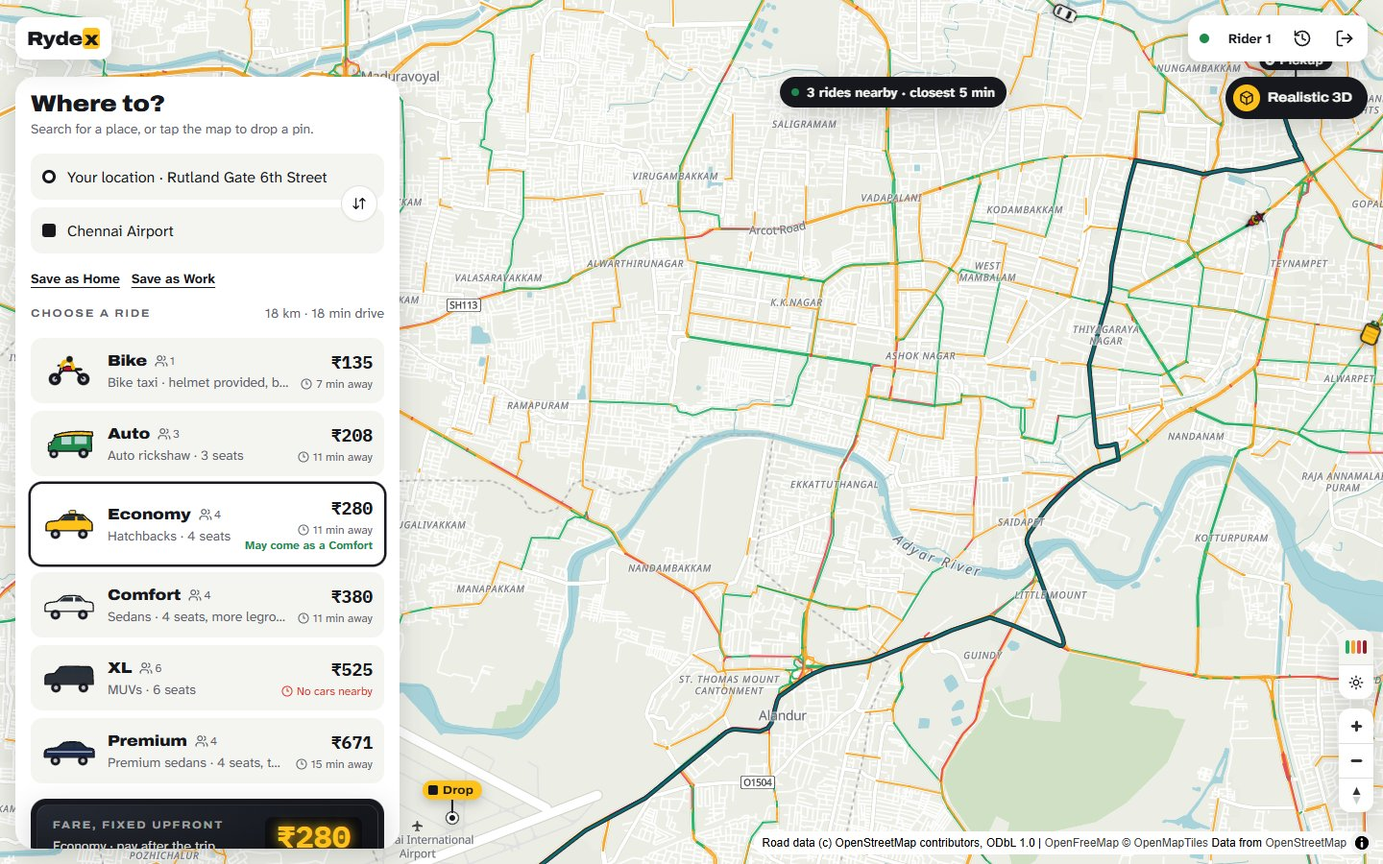
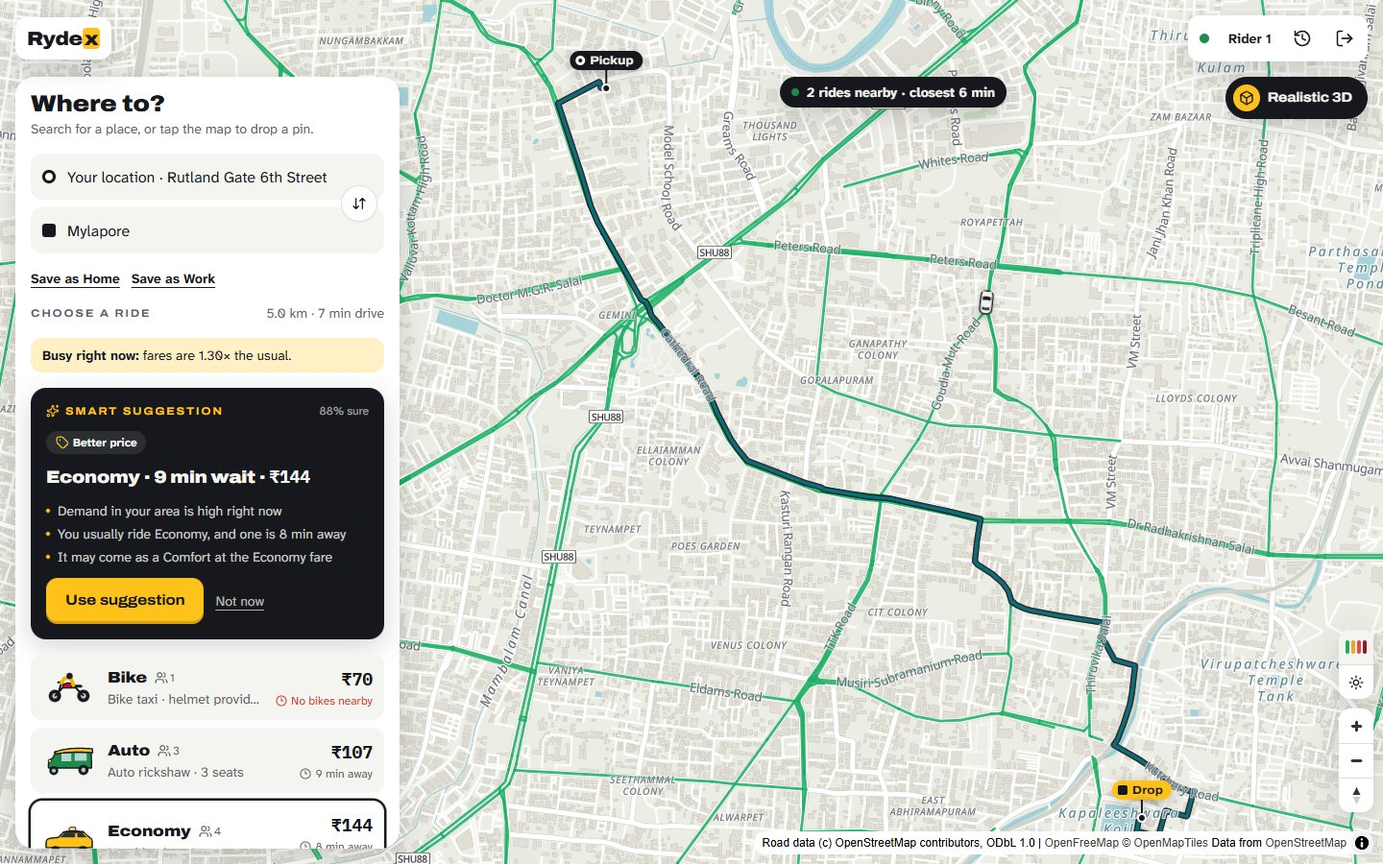
docs: Phase 7 in the README, guide, ADR 22 and agent notes

diff --git a/README.md b/README.md
@@ -20,12 +20,12 @@
 
 ## About
 
-Rydex is a ride-hailing platform in the spirit of Uber and Ola, set in Chennai: riders book bikes, autos and cabs, drivers get offers and drive the trip, and operations watch the whole city live. Four Spring Boot services talk over Kafka with a transactional outbox, live positions travel over WebSockets, and a Python simulator fills the city with automated drivers and riders who book, drive, pay and rate on their own.
+Rydex is a ride-hailing platform in the spirit of Uber and Ola, set in Chennai: riders book bikes, autos and cabs, drivers get offers and drive the trip, and operations watch the whole city live. Four Spring Boot services talk over Kafka with a transactional outbox, and live positions travel over WebSockets. A Python AI service suggests the best ride, time and pickup spot, and a Python simulator fills the city with automated drivers and riders who book, drive, pay and rate on their own.
 
 Everything runs locally with Docker, and the deployment plan uses free tiers only (Oracle Cloud Always Free, Vercel, DuckDNS).
 
 > [!NOTE]
-> Work in progress: phases 0–6 of the [build plan](docs/MASTER_PROMPT.md) are done. Next up are AI ride suggestions, production hardening, observability and the public deployment (see the [roadmap](#roadmap)).
+> Work in progress: phases 0–7 of the [build plan](docs/MASTER_PROMPT.md) are done. Next up are production hardening, observability and the public deployment (see the [roadmap](#roadmap)).
 
 ## Features
 
@@ -35,6 +35,15 @@ Everything runs locally with Docker, and the deployment plan uses free tiers onl
 - The car moves live on the map; a 4-digit PIN starts the trip.
 - Saved Home and Work, recent destinations, trip ratings.
 - When no driver is found: the rides free nearby right now, one tap to book.
+
+**Smart suggestions (AI)**
+- A suggestion card with every estimate. It suggests:
+  - the ride you usually take;
+  - booking 10 or 20 minutes later when the surge is predicted to ease;
+  - a short walk to a spot with more free cars;
+  - the route that is faster in this hour's traffic.
+- Plain reasons, "Use suggestion" in one tap, and every suggestion logged with whether the rider booked with it.
+- Two LightGBM models (wait time, surge) on live demand and supply from Kafka, trained on synthetic Chennai-like data. No paid AI service.
 
 **Drivers**
 - Offers matched by geohash and road ETA, 15 seconds to accept, with locks so a driver gets one offer at a time.
@@ -55,11 +64,11 @@ Everything runs locally with Docker, and the deployment plan uses free tiers onl
 
 <table>
   <tr>
-    <td width="50%"><img src="docs/images/booking.jpg" alt="The rider's booking screen: six ride types with fares and times, the route to Chennai Airport over simulated traffic"></td>
+    <td width="50%"><img src="docs/images/booking.jpg" alt="The rider's booking screen: the AI smart suggestion card with its reasons above the ride types and fares, the route to Mylapore over simulated traffic"></td>
     <td width="50%"><img src="docs/images/operations.jpg" alt="The operations map: the living city's vehicles, waiting riders and dispatch lines over Chennai, with live KPIs at the side"></td>
   </tr>
   <tr>
-    <td align="center"><sub>Booking: every ride type, priced upfront</sub></td>
+    <td align="center"><sub>Booking: a smart suggestion, every ride type priced upfront</sub></td>
     <td align="center"><sub>Operations: the living city, live</sub></td>
   </tr>
 </table>
@@ -70,6 +79,7 @@ Everything runs locally with Docker, and the deployment plan uses free tiers onl
 flowchart TB
     web["Web app<br/>React · MapLibre · three.js"]
     sim["Simulator<br/>NPC drivers + riders"]
+    ai["ai-service :8085<br/>FastAPI · LightGBM suggestions"]
 
     subgraph services["Spring Boot services"]
         direction LR
@@ -90,6 +100,9 @@ flowchart TB
     services --> pg
     services --> redis
     services -- "payments" --> rzp
+    services -- "suggestions (300 ms, circuit breaker)" --> ai
+    kafka -- "demand + supply features" --> ai
+    ai --> redis
 ```
 
 A booking flows `RIDE_REQUESTED → DRIVER_ASSIGNED → DRIVER_ARRIVED → IN_PROGRESS → COMPLETED`; each step is an event that the other services consume exactly once (idempotent consumers), and every event reaches the rider and driver live through tracking-service. The decisions behind each piece are written up as [architecture decision records](docs/adr).
@@ -99,6 +112,7 @@ A booking flows `RIDE_REQUESTED → DRIVER_ASSIGNED → DRIVER_ARRIVED → IN_PR
 | Backend | Java 21, Spring Boot 4, Spring Security (RS256/JWKS), Spring Kafka, JPA + Flyway, Resilience4j |
 | Data | PostgreSQL 16 + PostGIS, Redis 7 (GEO, Lua scripts, pub/sub), Apache Kafka 4 (KRaft) |
 | Web | React 19, Vite, TypeScript, Tailwind CSS 4, TanStack Query, Zustand, MapLibre GL, three.js, STOMP |
+| AI | Python 3.12, FastAPI, LightGBM, aiokafka, Redis features |
 | Simulator | Python 3.12 asyncio, OSRM routes |
 | Testing | JUnit 5 + Testcontainers, Vitest + Testing Library, Playwright, pytest, a PowerShell smoke test |
 | Maps | OpenStreetMap data, OpenFreeMap vector tiles, OSRM routing, Nominatim search |
@@ -128,9 +142,13 @@ cd frontend && npm install && npm run dev
 
 # 6. Bring the city to life: 40 automated drivers and 30 automated riders
 cd simulator && pip install -r requirements.txt && python simulate.py --city
+
+# 7. Optional: the AI suggestions (without it, estimates have no suggestion card)
+cd ai-service && python -m venv .venv && .venv/bin/pip install -r requirements.txt
+.venv/bin/python -m uvicorn app.main:app --port 8085
 ```
 
-On Windows, use `.\mvnw.cmd` and PowerShell's `;` in place of `&&`; step 3 needs Git Bash.
+On Windows, use `.\mvnw.cmd`, `.venv\Scripts\` in place of `.venv/bin/`, and PowerShell's `;` in place of `&&`; step 3 needs Git Bash.
 
 Sign in with a demo account (password `Rydex@123`):
 
@@ -149,6 +167,7 @@ The [guide](docs/GUIDE.md) covers the full tour, Razorpay test mode, the smoke t
 | Backend: unit and integration tests | `./mvnw verify` |
 | Web app: lint, types, formatting, unit tests | `cd frontend && npm run lint && npm run typecheck && npm run format:check && npm test` |
 | Simulator | `cd simulator && python -m pytest` |
+| AI service: engine, features, models, API | `cd ai-service && python -m pytest` |
 | End to end, with the services running | `powershell -File infra/scripts/smoke-test.ps1`, then `cd frontend && npm run e2e` |
 
 [CI](.github/workflows/ci.yml) runs all of them on every push, the end-to-end tests against the full stack.
@@ -162,7 +181,8 @@ libs/messaging/       outbox relay, idempotent consumers, retries and dead-lette
 libs/presence/        driver presence in Redis (Lua scripts), shared by driver- and tracking-service
 frontend/             React web app: rider, driver and admin screens
 simulator/            the living city: automated drivers and riders (Python asyncio)
-contracts/            JSON Schemas for the Kafka events, the WebSocket (STOMP) API
+ai-service/           smart ride suggestions: FastAPI, LightGBM, training on synthetic data
+contracts/            JSON Schemas for the Kafka events and the AI suggestions, the WebSocket (STOMP) API
 infra/                Docker Compose, the PostGIS image, scripts, the smoke test
 docs/                 the guide, the build plan and architecture decision records
 ```
@@ -173,7 +193,7 @@ docs/                 the guide, the build plan and architecture decision record
 - [x] **4–5** Live tracking over WebSockets; payments (mock and Razorpay test mode, refunds)
 - [x] **6** Web app (rider, driver, admin), simulator, end-to-end tests
 - [x] Beyond the plan: security hardening, the realistic 3D mode, the living city, ride types, ride-along, free upgrades, ratings
-- [ ] **7** AI ride suggestions (FastAPI + LightGBM)
+- [x] **7** AI ride suggestions (FastAPI + LightGBM, live Kafka features, feedback log)
 - [ ] **8** Production Docker images, Caddy, memory limits
 - [ ] **9** Observability: Sentry, Prometheus, Grafana
 - [ ] **10** Deployment: Oracle Cloud Always Free, HTTPS, Vercel, continuous delivery
@@ -188,4 +208,4 @@ Contributions are welcome. Read [CONTRIBUTING.md](CONTRIBUTING.md) for the setup
 
 Rydex is released under the [MIT License](LICENSE).
 
-Map data © [OpenStreetMap](https://www.openstreetmap.org/copyright) contributors, available under the [Open Database License](https://opendatacommons.org/licenses/odbl/); this covers the road data in `frontend/public/data/traffic-roads.json`. Vector tiles by [OpenFreeMap](https://openfreemap.org) (OpenMapTiles schema), routes by [OSRM](https://project-osrm.org), place search by [Nominatim](https://nominatim.org).
+Map data © [OpenStreetMap](https://www.openstreetmap.org/copyright) contributors, available under the [Open Database License](https://opendatacommons.org/licenses/odbl/); this covers the road data in `frontend/public/data/traffic-roads.json`. Vector tiles by [OpenFreeMap](https://openfreemap.org) (OpenMapTiles schema), routes by [OSRM](https://project-osrm.org), place search by [Nominatim](https://nominatim.org). The AI suggestions learn from synthetic data, and traffic is a time-of-day model, since free routing has no live traffic.

diff --git a/CLAUDE.md b/CLAUDE.md
@@ -22,6 +22,7 @@ The full specification is in [docs/MASTER_PROMPT.md](docs/MASTER_PROMPT.md). Rea
 - Infra: `docker compose -f infra/docker-compose.yml up -d` (Postgres+PostGIS :5432, Redis :6379, Kafka :9092 — all on 127.0.0.1)
 - Frontend (`frontend/`): `npm run dev` (:5173, proxies /api + /ws), `npm run format` (Prettier, `.prettierrc.json`: 160 columns, single quotes; CI runs `format:check`), `npm run lint`, `npm run typecheck`, `npm test`, `npm run e2e` (Playwright, needs the 4 services)
 - Simulator (`simulator/`): `python simulate.py --city` (the living city: 40 NPC drivers + 30 NPC riders); tests `python -m pytest`
+- AI service (`ai-service/`, own venv `.venv`): `.venv\Scripts\python -m uvicorn app.main:app --port 8085`; tests `.venv\Scripts\python -m pytest`; retrain `python -m training.train` (deterministic, models committed); after changing `app/schemas.py` run `python -m app.contract` (a test fails if `contracts/ai/suggestions.schema.json` is stale)
 - Traffic roads (once; output committed): `python infra/scripts/build-traffic-roads.py` (Overpass, tiles cached in `.cache/`)
 
 ## Gotchas
@@ -37,7 +38,8 @@ The full specification is in [docs/MASTER_PROMPT.md](docs/MASTER_PROMPT.md). Rea
 - Docs: the README is the short front page (features, architecture diagram, getting started, roadmap); the full tour, demo accounts, Razorpay, smoke test, secrets and troubleshooting live in `docs/GUIDE.md`. Screenshots in `docs/images/` (JPEG, from headless Playwright).
 - Local Kafka (combined broker+controller) has `KAFKA_BROKER_SESSION_TIMEOUT_MS=30000`: with the default 9 s a busy laptop missed heartbeats, the broker was fenced and reloaded every partition in a loop (NOT_COORDINATOR storms, ride events minutes late). After changing compose env, `docker compose -f infra/docker-compose.yml up -d kafka` recreates it.
 - Running the services plus `mvnw verify` can exhaust 8 GB RAM (forked test JVM fails to start): stop the services first. Local runs are kept lean: `spring-boot:run` JVMs get `-Xmx320m -XX:+UseSerialGC -XX:TieredStopAtLevel=1` (root pom), Maven itself `.mvn/jvm.config`, Kafka `-Xmx512m` with a 64 MB health-check CLI (the CLI inherits `KAFKA_HEAP_OPTS` otherwise): about 1.2 GB less than before.
-- Python helper scripts piped through a Bash heredoc lose backslashes (a doubled backslash arrives single): write them with the Write tool and raw strings.
+- Python helper scripts piped through a Bash heredoc lose backslashes (a doubled backslash arrives single): write them with the Write tool and raw strings. In them always `read_text(encoding='utf-8')` / `write_text(..., encoding='utf-8')`: the Windows default (cp1252) writes a new `·` or `₹` as one invalid byte, or fails halfway and truncates the file.
+- ai-service (ADR 0022): ride-service calls it with every real rider's estimate (`rydex.ai.*`: 300 ms read timeout, circuit breaker `ai`); any failure means an estimate without `suggestion`, never an error. NPC riders get none. The request carries the quoted options/route/alternatives/surge counts/history, so ai-service has no database; `ai_suggestion_log` (ride V12) is ride-service's. Booking with `suggestionId` marks it taken only if that rider was shown it. ai-service connects to `127.0.0.1` (not `localhost`: on Windows that tries IPv6 first and the containers listen on IPv4 only, which once timed every Redis call out). Its feature keys are `ai:*`. Tests: ride-service uses `AiStub` (a local HTTP server, 503 by default; reset the breaker in tests that need it).
 - Frontend: one API origin routed by path prefix (ADR 0013); the Vite proxy table in `vite.config.ts` must match Caddy (Phase 8), the simulator's `LOCAL_ROUTES` and the smoke test. New npm/pip deps: pin a version at least two weeks old; TypeScript stays on 6.0 (typescript-eslint supports < 6.1).
 - Bundle: three.js loads only with realistic mode (`import('./car3d')`/`import('./scenery')`); MapLibre (~300 KB gz + a ~500 KB worker) loads with the first map, and the sign-in page prefetches both (`map/prefetch.ts`: 2.8 s -> 0.9 s to the first map on a slow network). `npx vite preview` (:4173) serves the production build with the same proxy for such checks.
 - Frontend tests mock `api/endpoints`, `map/MapView` (Leaflet needs layout) and `realtime/hooks`. JSX test helpers must be `.tsx`.
@@ -70,6 +72,7 @@ The full specification is in [docs/MASTER_PROMPT.md](docs/MASTER_PROMPT.md). Rea
 - `libs/presence` — `PresenceStore` + Lua scripts for `driver:{id}:state|loc`, `driver:lastseen`, GEO/supply indexes; used by driver-service and tracking-service (ADR 0011).
 - tracking-service — STOMP at `/ws` (contract: `contracts/websocket.md`), `ws:push` Redis channel for fan-out (driver-service pushes offers there too), `tracked_rides` projection, `driver.location` producer + `tracking-history` consumer.
 - frontend — React 19 + Vite 8 + Tailwind 4 + TanStack Query + Zustand + MapLibre GL + three.js + stompjs. `api/` (http client with cross-tab refresh, endpoints, types), `realtime/` (one STOMP connection, hooks), `map/` (`MapView` components, `theme` palettes/3D buildings/sky, `car3d` + `scenery` three.js custom layers, `Atmosphere` sky overlay, `traffic`/`TrafficLayer`, `mapPrefs` + `MapPrefsControl`, `useRealistic`, `useFollowedRoute`), `pages/{rider,driver,admin}` + `TripPage` (`/trips/:id`, drivers and admins), `components/` (ui: Meter, Plate, PinTiles, Sheet, PasswordField; Realistic: HUD, speedometer, TripProgress). Playwright test in `e2e/`.
+- ai-service — FastAPI on :8085 (internal): `app/engine.py` (suggestion rules over the models), `app/model.py` (LightGBM wait + surge), `app/features.py` + `app/consumer.py` (Kafka -> Redis features, EWMA forecast), `app/calendar.py` (Chennai time, traffic multiplier), `training/` (synthetic generator + train). ride-service side: `ai/` (`SuggestionService`, `AiClient`, `SuggestionLog`, feedback endpoint `POST /api/ai/suggestions/{id}/feedback`); web app: `pages/rider/SuggestionCard.tsx`.
 - simulator — the living city in Python asyncio (`rydex_sim/`: `driver.py` NPC drivers, `rider.py` NPC riders + `PinBoard`, `places.py`, `traffic.py`, own STOMP client, paced sign-ins, OSRM routes, PIN fallback derivation).
 - driver-service `GET /api/drivers/nearby` — free cars within 3 km with opaque (HMAC) ids, for the rider's map.
 - payment-service — one payment per ride (fare on RIDE_COMPLETED, fee on a RIDE_CANCELLED with `cancellationFee`); `PaymentProcessor` (leases, provider calls outside transactions) + `PaymentLedger` (state + outbox); providers `MockPaymentProvider` / `RazorpayProvider` (orders, checkout verify, polling, webhook, refunds); admin refunds; `/dev/checkout.html` (ADR 0012).
@@ -91,4 +94,5 @@ The full specification is in [docs/MASTER_PROMPT.md](docs/MASTER_PROMPT.md). Rea
 - [x] Admin ride-along (ADR 0019): click a vehicle on the operations map, chase camera on it in 3D, live driver + trip panel at the side, X/Esc back to the previous view
 - [x] Abandoned rides and honest figures (ADR 0020): stuck rides ended when their driver is silent 15 min, median admin times, Chennai-time day/night, simulator city speeds
 - [x] Free upgrades (ADR 0021): Economy rides may come as Comfort, Comfort as Premium, at the booked fare, when none of the booked class is free
+- [x] Phase 7 — ai-service (ADR 0022): synthetic data + deterministic LightGBM training (wait, surge; metrics.json, `/model/info`), live demand/supply from Kafka in Redis with an EWMA forecast, suggestions (ride type from history, pickup time, nearby pickup spot, route choice, template reasons), ride-service merge with 300 ms timeout + circuit breaker, `ai_suggestion_log` + feedback + admin KPI, suggestion card, CI job + smoke test
 - [x] Phase 6 — web app (rider booking + live ride + Razorpay Checkout, driver dashboard with offers/trip/simulated driving, admin map with geohash grid/demand/KPIs, history), driver simulator, driver card / route / admin stats endpoints, Vitest + Playwright, CI jobs (ADR 0013)

diff --git a/docs/GUIDE.md b/docs/GUIDE.md
@@ -8,6 +8,7 @@ A tour of what runs locally, how to try it, and how to configure it. For setup, 
 - [Try a ride](#try-a-ride)
 - [Realistic 3D](#realistic-3d)
 - [Payments](#payments)
+- [Smart suggestions (AI)](#smart-suggestions-ai)
 - [Checking that it works](#checking-that-it-works)
 - [Security and secrets](#security-and-secrets)
 - [Local addresses](#local-addresses)
@@ -93,6 +94,35 @@ Payments use a mock provider by default (every charge succeeds at once). To use 
 
 The rider pays in Razorpay Checkout from the ride screen ("Pay"); choose Netbanking (any bank, then Success) or a [test card](https://razorpay.com/docs/payments/payments/test-card-details/). Avoid Wallet: Razorpay test mode would not refund a wallet payment. `http://localhost:8084/dev/checkout.html` pays one ride without the web app. See ADR 12.
 
+## Smart suggestions (AI)
+
+With ai-service running, every estimate a rider asks for can come with a **smart suggestion card** above the ride types:
+- **Which ride:** what you usually book (from your last 20 trips), or for a new rider the cheapest ride with a short wait.
+- **When:** booking in 10 or 20 minutes instead, if the surge is predicted to ease enough to be worth the wait ("book at 10:55, save ₹38").
+- **Where:** a short walk (up to about 400 m) to a main road in the next cell, if more free cars there mean a clearly shorter wait.
+- **Which way:** OSRM's other route, if this hour's traffic makes it faster.
+
+It also gives plain reasons and how sure it is. **Use suggestion** picks the ride type and moves the pickup; booking then counts as taking it. **Not now** dismisses it. The operations map's KPIs show how many suggestions riders booked with. Automated riders get none.
+
+Run it next to the four services (Python 3.12+):
+
+```bash
+cd ai-service
+python -m venv .venv && .venv/bin/pip install -r requirements-dev.txt   # Windows: .venv\Scripts\pip
+.venv/bin/python -m uvicorn app.main:app --port 8085                     # Windows: .venv\Scripts\python
+```
+
+Without it nothing changes: ride-service waits at most 300 ms for an answer and books as before.
+
+How it works (ADR 22):
+- **Live data:** ai-service reads ride requests and free drivers from Kafka into Redis, per map cell.
+- **Models:** two LightGBM models predict the wait and the surge. They are trained on synthetic data with Chennai-like patterns: rush hours, weekends, monsoon rain.
+- **Traffic:** free routing has no live traffic, so traffic is a time-of-day multiplier.
+- **Tools:**
+  - `GET http://localhost:8085/model/info` shows the model version and its error (MAE) on held-out data;
+  - `python -m training.train` retrains the models;
+  - `python -m pytest` runs the tests.
+
 ## Checking that it works
 
 With the infrastructure and the four services running, the smoke test prints PASS/FAIL per check:
@@ -101,7 +131,7 @@ With the infrastructure and the four services running, the smoke test prints PAS
 powershell -ExecutionPolicy Bypass -File infra\scripts\smoke-test.ps1
 ```
 
-It runs a full ride across the services over Kafka (book, offer, accept, arrive, OTP start, complete), the same ride live over WebSockets (the offer pushed to the driver, accepted over the socket, notifications and the driver's position streamed to the rider), and payments (the fare charged, a late cancellation fee, an admin refund), then what the web app reads (driver card, routes, admin KPIs) and, if the dev server runs, its proxy to every service. In Razorpay test mode, add `-PayInBrowser`: it opens the test checkout to pay the cancellation fee, then refunds it.
+It runs a full ride across the services over Kafka (book, offer, accept, arrive, OTP start, complete), the same ride live over WebSockets (the offer pushed to the driver, accepted over the socket, notifications and the driver's position streamed to the rider), and payments (the fare charged, a late cancellation fee, an admin refund), then what the web app reads (driver card, routes, admin KPIs) and, if the dev server runs, its proxy to every service. With ai-service running it checks the smart suggestion (shown, booked with, dismissed); without it, that estimates still work. In Razorpay test mode, add `-PayInBrowser`: it opens the test checkout to pay the cancellation fee, then refunds it.
 
 Stop the simulator first: its cruising drivers can win the smoke test's offers.
 
@@ -137,6 +167,7 @@ Back up `PII_DATA_KEY` with the database: without it the stored emails and phone
 | driver-service | `http://localhost:8082/swagger-ui` |
 | tracking-service | `ws://localhost:8083/ws` (STOMP, [contract](../contracts/websocket.md)) |
 | payment-service | `http://localhost:8084/swagger-ui` |
+| ai-service (internal) | `http://localhost:8085/docs`, `/model/info` |
 | Web app (Vite dev server) | `http://localhost:5173` |
 
 ## Troubleshooting
@@ -148,5 +179,7 @@ Get-Content infra\postgres\initdb\01-init.sh -Raw | docker compose -f infra/dock
 ```
 
 **8 GB of RAM.** Running the four services and `mvnw verify` at once can run out of memory: stop the services before a full build.
+
+**No suggestion card?** Check that ai-service answers at `http://localhost:8085/health`. After it has been down for a while, ride-service waits a minute (its circuit breaker) before asking again. `/model/info` says `"liveFeatures": false` until ride requests or driver positions arrive over Kafka (start the simulator).
 
 **Changed something in `libs/`?** `mvnw spring-boot:run` inside a module reads the libraries from `~/.m2`: run `./mvnw install -DskipTests -pl libs/common-events,libs/messaging,libs/presence` first.

diff --git a/docs/adr/0022-ai-ride-suggestions.md b/docs/adr/0022-ai-ride-suggestions.md
@@ -1,0 +1,32 @@
+# 22. AI ride suggestions
+
+Date: 2026-10-18 · Status: Accepted (master prompt §9, Phase 7)
+
+## Context
+- The rider's booking screen should carry a "smart suggestion": which ride type, when to book, where to be picked up and which way to go, with plain reasons.
+- Constraints: free tier only (no paid LLM, no weather or traffic feed), a small VM, and booking must never wait for or depend on it.
+
+## Decision
+- **A separate internal service, `ai-service`** (Python 3.12, FastAPI, LightGBM, :8085). It is never exposed by the proxy; only ride-service calls it.
+- **ride-service asks, with every rider's estimate** (`POST /suggestions`, contract `contracts/ai/suggestions.schema.json`), and merges the answer into the estimate as `suggestion`.
+  - The request carries what ride-service already knows: the quoted options (fare, fare without surge, closest-car ETA, upgrade), the route and OSRM's alternatives, the surge and its demand/supply counts, and the rider's last 20 completed trips. So ai-service needs no database of its own and the suggestion agrees with the prices on screen.
+  - **Never in the way:** a 300 ms read timeout (150 ms to connect) and a Resilience4j circuit breaker (`ai`, 60 s open). Any failure means an estimate without a suggestion.
+  - The living city's automated riders get none (nothing to learn from logging them).
+- **Live features from Kafka:** ai-service consumes `ride.events` (RIDE_REQUESTED, per geohash-6 cell, 15-minute buckets) and `driver.location` (free drivers by their last cell) into Redis (`ai:*` keys). The demand forecast for a later pickup is an EWMA of the last two hours, shaped by the city's daily curve. It starts at the latest offsets and keeps retrying while Kafka is down.
+- **Two LightGBM regressors** (wait minutes, surge), on hour, weekday, holiday, demand, supply, their ratio, ride type, trip length and a time-of-day traffic multiplier.
+  - **Trained on synthetic data** (`training/generate.py`): rush hours, off days, monsoon rain (not a feature, so it is noise), busy and quiet areas, a fleet that thins out at night. The surge target is ride-service's own formula.
+  - `python -m training.train` is deterministic and writes `models/` with `metrics.json`. The models are committed (about 200 KB), so the service starts without training. Held-out MAE: wait 1.6 min against 3.5 min for a constant guess; surge 0.04 against 0.06 (surge is 1.0 most of the time).
+- **The engine** (`app/engine.py`), on top of the models:
+  - **ride type:** from the rider's history (recency-weighted favourite, price sensitivity); a new rider gets the cheapest type with a short wait; no bikes beyond 15 km;
+  - **pickup time:** now, +10 and +20 min. The model's change is added to the surge and ETA known now, and a later time is only suggested when it saves at least Rs 15 and 8%, after valuing the wait;
+  - **pickup point:** a spot on a main road (the traffic map's OSM roads) in a neighbouring cell, at most about 400 m away, when its free cars make the wait at least 2 min shorter, walk included;
+  - **route:** OSRM's alternatives scored with the traffic multiplier, which weighs heavier on fast roads (the big roads are the ones that jam);
+  - **reasons:** templates, no LLM.
+- **Feedback:** `ai_suggestion_log` (ride-service V12) stores every suggestion shown, with its request and response. Booking with `suggestionId` marks it taken; "Not now" (`POST /api/ai/suggestions/{id}/feedback`) marks it dismissed. The admin KPIs show the share booked with; Grafana follows in Phase 9.
+
+## Consequences
+- **Honest limits:** free routing has no live traffic, so traffic is a time-of-day model. The models learn a synthetic city, not real Chennai trips; the log is there to retrain on real feedback later.
+- **There is no scheduled booking.** A later pickup time is advice ("book at 10:55 to save Rs 38"); "Use suggestion" applies the ride type and the pickup point.
+- **A suggested route is advice too.** The fare is quoted on the fastest route, and the driver navigates as usual.
+- **About 4 ms a suggestion** on the laptop, well inside the 300 ms budget. Memory: about 150 MB.
+- **One more process to run locally** (`uvicorn app.main:app --port 8085`). Without it everything works as before, with no card.
